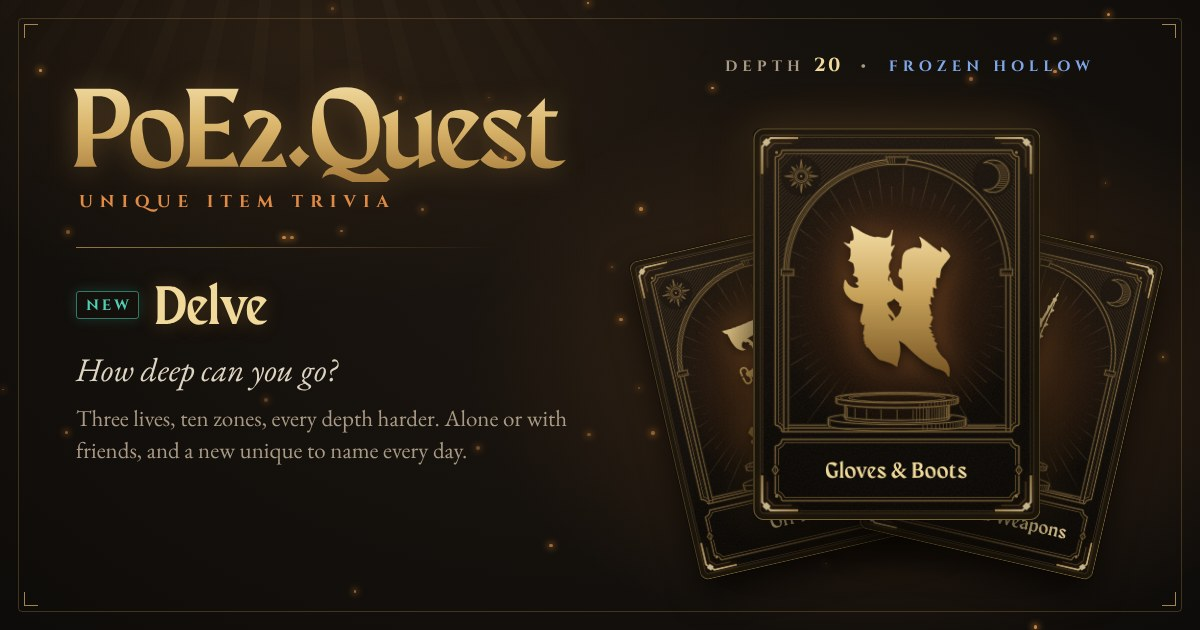
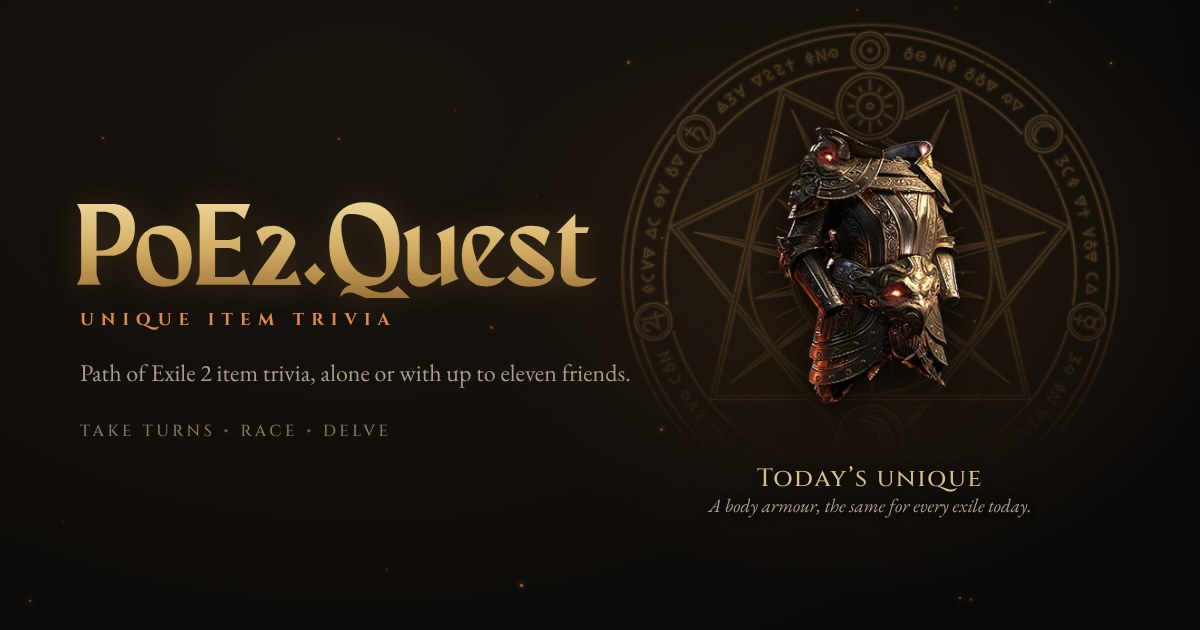
Share image: the start page's look, with today's unique in its circle
The title, kicker and blurb as on the start page, the three modes in quiet
capitals, and Kaom's Heart in the arcane circle under "Today's unique".
No New tag or slogan; the descriptions say the same plainly.

Claude-Session: https://claude.ai/code/session_01KbqhHPY9vnr7cZSvbhmf6p

diff --git a/index.html b/index.html
@@ -6,7 +6,7 @@
     <link rel="apple-touch-icon" href="./apple-touch-icon.png" />
     <meta name="viewport" content="width=device-width, initial-scale=1.0, viewport-fit=cover" />
     <meta name="theme-color" content="#0a0908" />
-    <meta name="description" content="Name the unique. A free Path of Exile 2 trivia game with 501 uniques and lineage gems. New: Delve, a descent with three lives, alone or with friends. Plus a new unique every day." />
+    <meta name="description" content="Name the unique. Path of Exile 2 item trivia with 501 uniques and lineage gems, alone or with up to eleven friends: take turns, race or delve, and name today's unique." />
     <meta name="author" content="zoe_arcana" />
     <link rel="canonical" href="https://poe2.quest/" />
     <meta property="og:type" content="website" />
@@ -14,18 +14,18 @@
     <meta property="og:locale" content="en_US" />
     <meta property="og:url" content="https://poe2.quest/" />
     <meta property="og:title" content="PoE2.Quest • Unique Item Trivia" />
-    <meta property="og:description" content="Name the unique. New: Delve, how deep can you go? Three lives, ten zones, every depth harder, alone or with friends. Plus a new unique every day. Free Path of Exile 2 trivia by zoe_arcana." />
+    <meta property="og:description" content="Name the unique. Path of Exile 2 item trivia, alone or with up to eleven friends: take turns, race or delve, and a new unique every day. Free, by zoe_arcana." />
     <!-- Bump ?v= whenever og.jpg changes, so link previews drop their cached copy. -->
     <meta property="og:image" content="https://poe2.quest/og.jpg?v=3" />
     <meta property="og:image:type" content="image/jpeg" />
     <meta property="og:image:width" content="1200" />
     <meta property="og:image:height" content="630" />
-    <meta property="og:image:alt" content="PoE2.Quest • Unique Item Trivia. New: Delve, how deep can you go? Three engraved category cards at depth 20, Frozen Hollow" />
+    <meta property="og:image:alt" content="PoE2.Quest • Unique Item Trivia, with Kaom's Heart in an arcane circle as today's unique" />
     <meta name="twitter:card" content="summary_large_image" />
     <meta name="twitter:title" content="PoE2.Quest • Unique Item Trivia" />
-    <meta name="twitter:description" content="Name the unique. New: Delve, how deep can you go? Alone or with friends, plus a new unique every day." />
+    <meta name="twitter:description" content="Name the unique. Path of Exile 2 item trivia, alone or with up to eleven friends." />
     <meta name="twitter:image" content="https://poe2.quest/og.jpg?v=3" />
-    <meta name="twitter:image:alt" content="PoE2.Quest • Unique Item Trivia. New: Delve, how deep can you go? Three engraved category cards at depth 20, Frozen Hollow" />
+    <meta name="twitter:image:alt" content="PoE2.Quest • Unique Item Trivia, with Kaom's Heart in an arcane circle as today's unique" />
     <title>PoE2.Quest • Unique Item Trivia</title>
   </head>
   <body>
